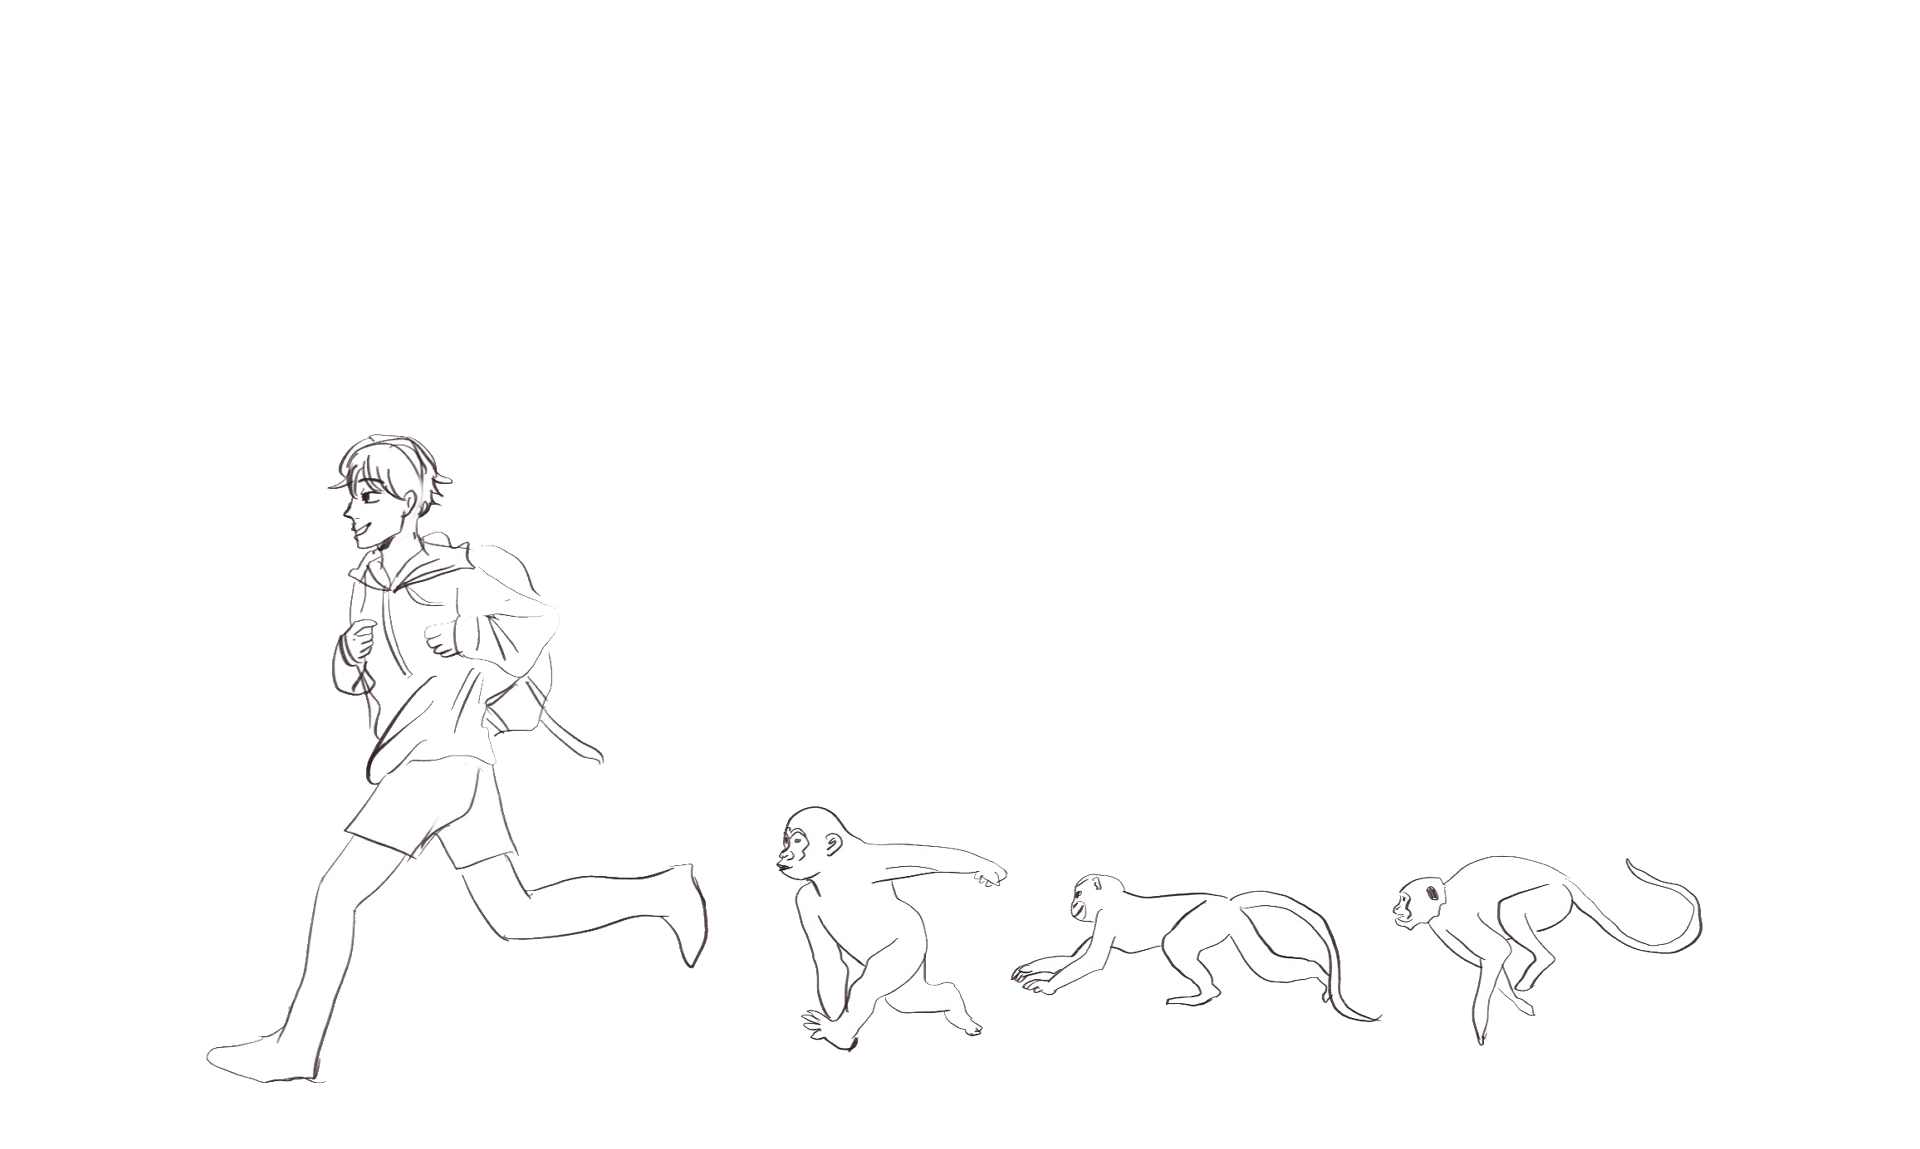
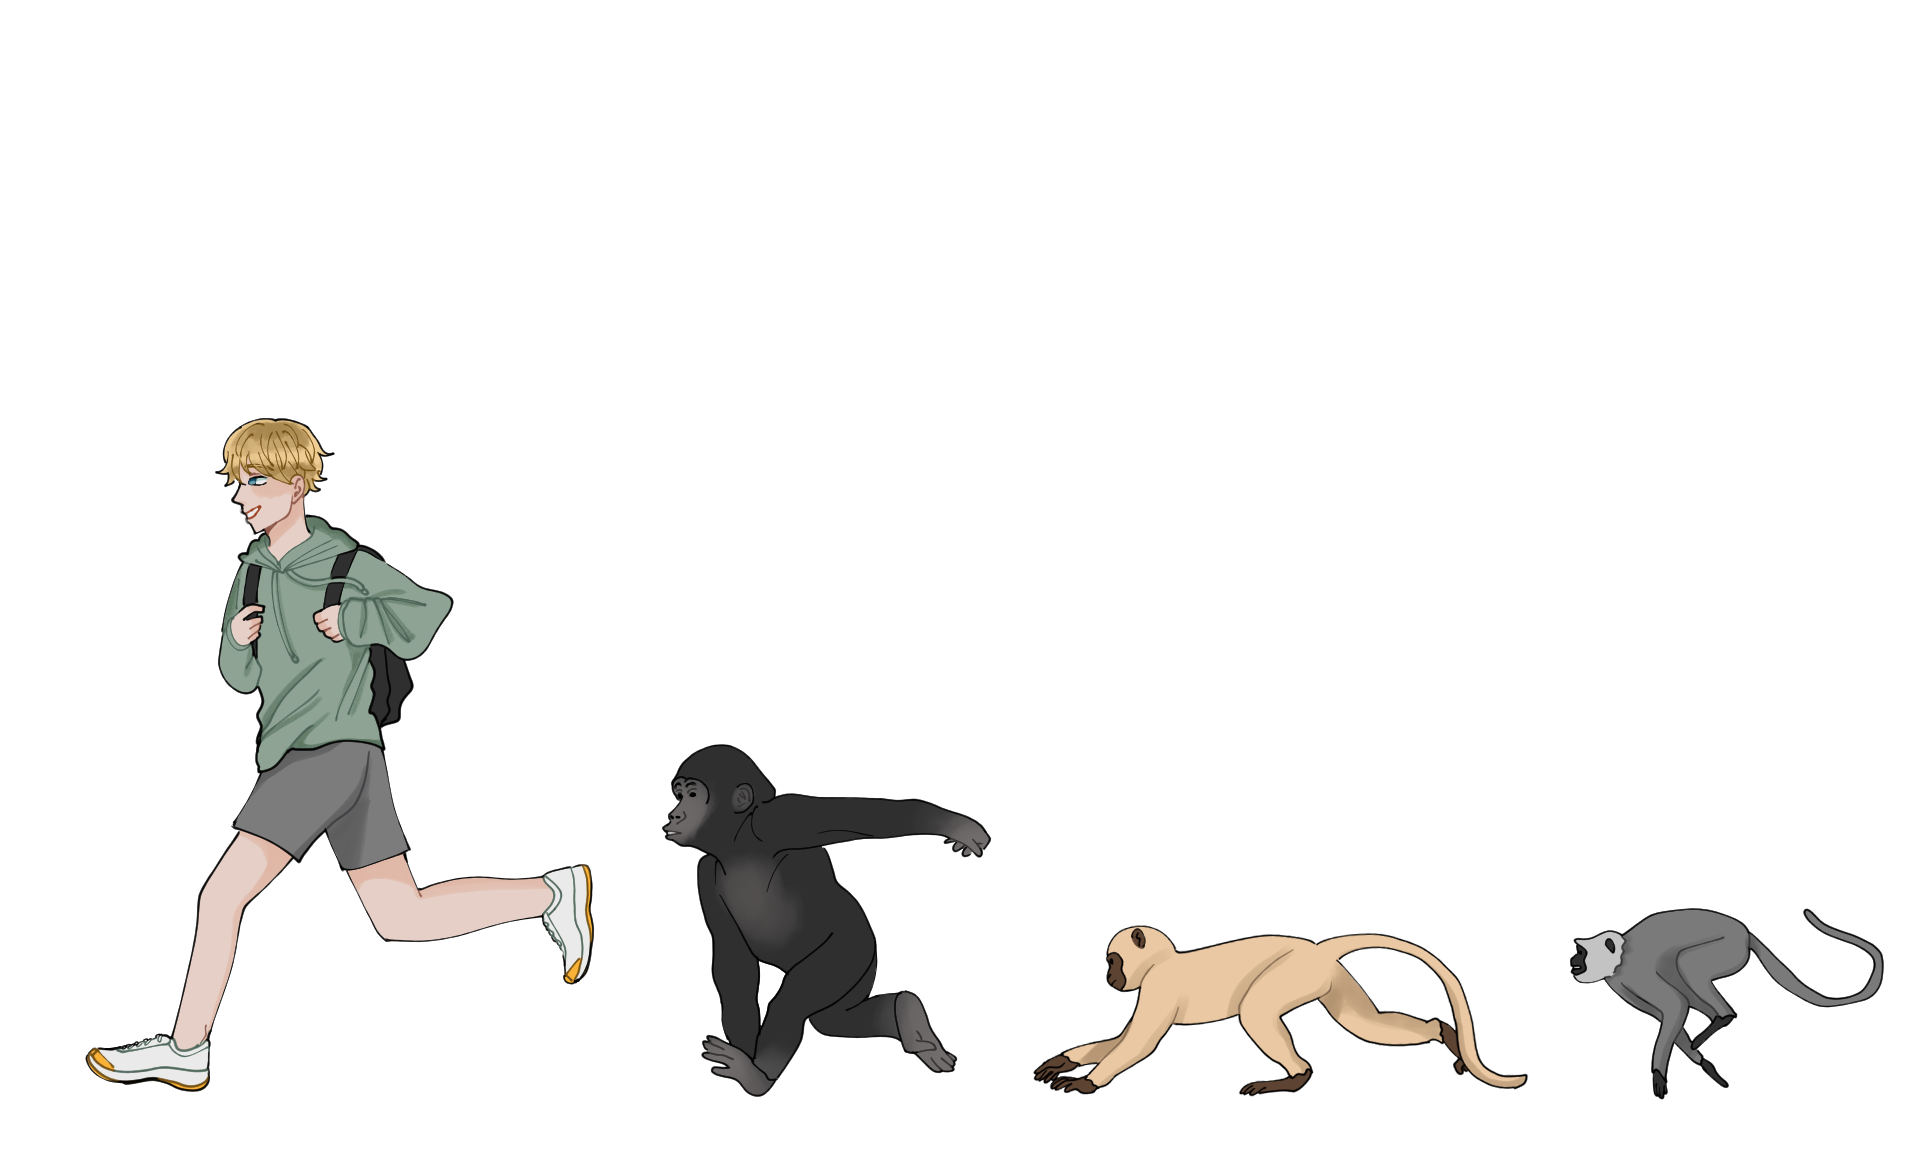
changed pics

diff --git a/portfolio/src/components/Navbar.css b/portfolio/src/components/Navbar.css
@@ -1,40 +1,34 @@
 @import url('https://fonts.googleapis.com/css2?family=Poppins:wght@400;600&display=swap');
 /* Navbar Styling */
 
+/* Navbar Styling */
 .navbar {
   background: #fff;
-  height: 50px;
+  height: 60px;
   display: flex;
   justify-content: center;
-  align-items: center;
+  align-items: center; /* Vertically centers the content */
   position: fixed;
   top: 15px;
   left: 50%;
   transform: translateX(-50%);
   z-index: 999;
   border-radius: 40px;
-  border: 1px solid rgba(0, 0, 0, 0.5);
+  border: 1px solid #ccc;
   box-shadow: none;
   padding: 0 20px;
   width: auto;
 }
 
-/* Navbar container (for layout) */
-.navbar__container {
-  display: flex;
-  justify-content: space-between;
-  align-items: center;
-  width: 100%;
-}
-
-/* Navbar menu (on desktop) */
+/* Navbar menu */
 .navbar__menu {
   display: flex;
-  align-items: center;
+  align-items: center; /* Ensures the navbar items are centered vertically */
   justify-content: center;
   list-style: none;
-  font-size: 1rem;
+  font-size: 1.2rem;
   gap: 30px;
+  margin-right: 20px;
 }
 
 /* Navbar links styling */
@@ -43,7 +37,7 @@
   font-weight: 400;
   color: #64A14E;
   text-decoration: none;
-  padding: 10px 20px;
+  padding: 10px;
   position: relative;
   transition: 
     color 0.3s ease, 
@@ -51,6 +45,14 @@
     padding 0.3s ease;
 }
 
+/* Hamburger menu and other adjustments remain unchanged */
+
+/* Navbar container (for layout) */
+.navbar__container {
+  display: flex;
+  align-items: center;
+  width: 100%;
+}
 /* Hover effect on links */
 .navbar__links::after {
   content: "";
@@ -58,9 +60,9 @@
   left: 0;
   bottom: 4px;
   width: 100%;
-  transform: scaleX(0);
   height: 2px;
   background-color: #64A14E;
+  transform: scaleX(0);
   transition: transform 0.3s ease-in-out;
 }
 
@@ -94,42 +96,114 @@
   transition: all 0.3s ease;
 }
 
+
 /* Media query for mobile */
 @media (max-width: 1000px) {
+
   .navbar__menu {
     display: none; /* Hide the menu by default on mobile */
     flex-direction: column;
     gap: 20px;
-    width: 290px;  /* Set width of the menu */
+    width: 250px;  /* Set width of the menu */
     position: absolute;
     top: 20px;  /* Move it lower from the top */
     right: 20px;  /* Align the menu to the right */
     align-items: flex-end;  /* Align menu items to the right */
     padding: 20px;  /* Add some padding inside the menu */
-    background-color: white;  /* Background for the menu */
-    box-shadow: 0 4px 6px rgba(0, 0, 0, 0.1);  /* Optional shadow */
+    border: 1px solid #ccc; /* Grey outline */
+    box-shadow: 0 4px 6px rgba(0, 0, 0, 0.2);  /* Optional shadow */
     border-radius: 8px;  /* Optional rounded corners */
+
   }
 
   .navbar {
     left: auto;  /* Remove left positioning */
     padding-right: 50px;
-    margin-right: 30px;
+    margin-right: 20px;
     right: 0;  /* Align navbar to the right */
     transform: none; /* Remove translateX for mobile */
     border: 0px;
     justify-content: flex-start;  /* Align content to the left */
-    background-color: #ffffff;
-  }
-  .navbar__hamburger {
-    display: flex; /* Show hamburger icon on mobile */
-  }
+    border: 1px solid #ccc; /* Grey outline */
+    
 
-  .navbar__menu.active {
-    align-items: right;
-    display: flex; /* Show the menu when active class is added */
-    max-width: 9rem;
   }
+/* Hamburger menu default state */
+.navbar__hamburger {
+  display: flex;
+  flex-direction: column;
+  justify-content: space-between;
+  width: 30px;
+  height: 21px;
+  cursor: pointer;
+  position: absolute;
+  right: 20px;
+  top: 20px; /* Adjusted for better spacing */
+  z-index: 1000; /* Ensure it's above the menu */
+
+  
+  
+}
+/* Ensure no background appears behind the hamburger menu */
+.navbar__hamburger.active {
+  background-color: white; /* Set background to white */
+}
+
+/* Hamburger bars */
+.navbar__hamburger div {
+  width: 100%;
+  height: 4px;
+  background-color: #64A14E;
+  transition: transform 0.3s ease, opacity 0.3s ease;
+  border-radius: 50px; /* Makes the edges rounded */
+
+  
+}
+
+/* Transform bars into an "X" when active */
+.navbar__hamburger.active div:nth-child(1) {
+  transform: translateY(8px) rotate(45deg);
+  
+}
+
+.navbar__hamburger.active div:nth-child(2) {
+  opacity: 0;
+}
+
+.navbar__hamburger.active div:nth-child(3) {
+  transform: translateY(-8px) rotate(-45deg);
+}
+
+/* Navbar menu styling */
+.navbar__menu {
+  display: none;
+  flex-direction: column;
+  gap: 20px;
+  width: 180px;
+  position: absolute;
+  top: 60px; /* Moved lower to avoid covering the "X" */
+  right: 20px;
+  padding: 20px;
+  border: 1px solid #ccc;
+  box-shadow: 0 4px 6px rgba(0, 0, 0, 0.2);
+  border-radius: 8px;
+  transition: transform 0.3s ease-out, opacity 0.3s ease;
+  opacity: 0;
+  transform: translateY(-10px);
+}
+
+/* Show menu when active */
+.navbar__menu.active {
+  display: flex;
+  opacity: 1;
+  transform: translateY(0);
+  background-color: white;
+  
+}
+.navbar__item {
+  width: 100%;
+  text-align: center;
+}
 }
 
 .navbar__menu {

diff --git a/portfolio/src/components/Hero.js b/portfolio/src/components/Hero.js
@@ -8,14 +8,14 @@ const Hero = () => {
       <TextFade direction="up" className="hero__content">
         <h11>Hey, I’m Jackson!</h11>
         <p>
-        Studying computer science with <br/>a minor in math @ the University of Houston.
+        Studying computer science with <br/>a minor in math @ the <span className="highlight">University of Houston</span>.
         </p>
-        <p>IT Intern @ <span className="redhighlight"> Derrick Corporation</span></p>
+        <p>IT Intern @ <span className="highlight"> Derrick Corporation</span></p>
       </TextFade>
 
       <img
         src="images/hero.png"  // Use the imported image here
-        alt="Alyssa on a bike"
+        alt="jackson n monkeys"
         className="hero__image"
       />
       <div className="visitor-counter">

diff --git a/portfolio/src/components/Hero.css b/portfolio/src/components/Hero.css
@@ -33,7 +33,7 @@
   .hero__content h11 {
     font-family: poppins;
     font-size: 3rem;
-    font-weight: 500;
+    font-weight: 700;
     color: #2a2a2a; 
     margin-bottom: 1rem;
   }
@@ -43,9 +43,8 @@
     font-family: poppins;
   }
 
-  .redhighlight {
-    color: #ff3434; 
-    font-weight: 600;
+  .highlight {
+    color: #d60000; 
   }
   
 /* Image styling */

diff --git a/portfolio/src/components/Experience.css b/portfolio/src/components/Experience.css
@@ -12,7 +12,7 @@
   background: #fff;     
   border-radius: 8px;   
   box-shadow: 0 2px 4px rgba(0, 0, 0, 0.1); 
-  max-width: 450px;
+  width:1200px;
   margin: 0 auto;          
   padding: 1rem;          
 }
